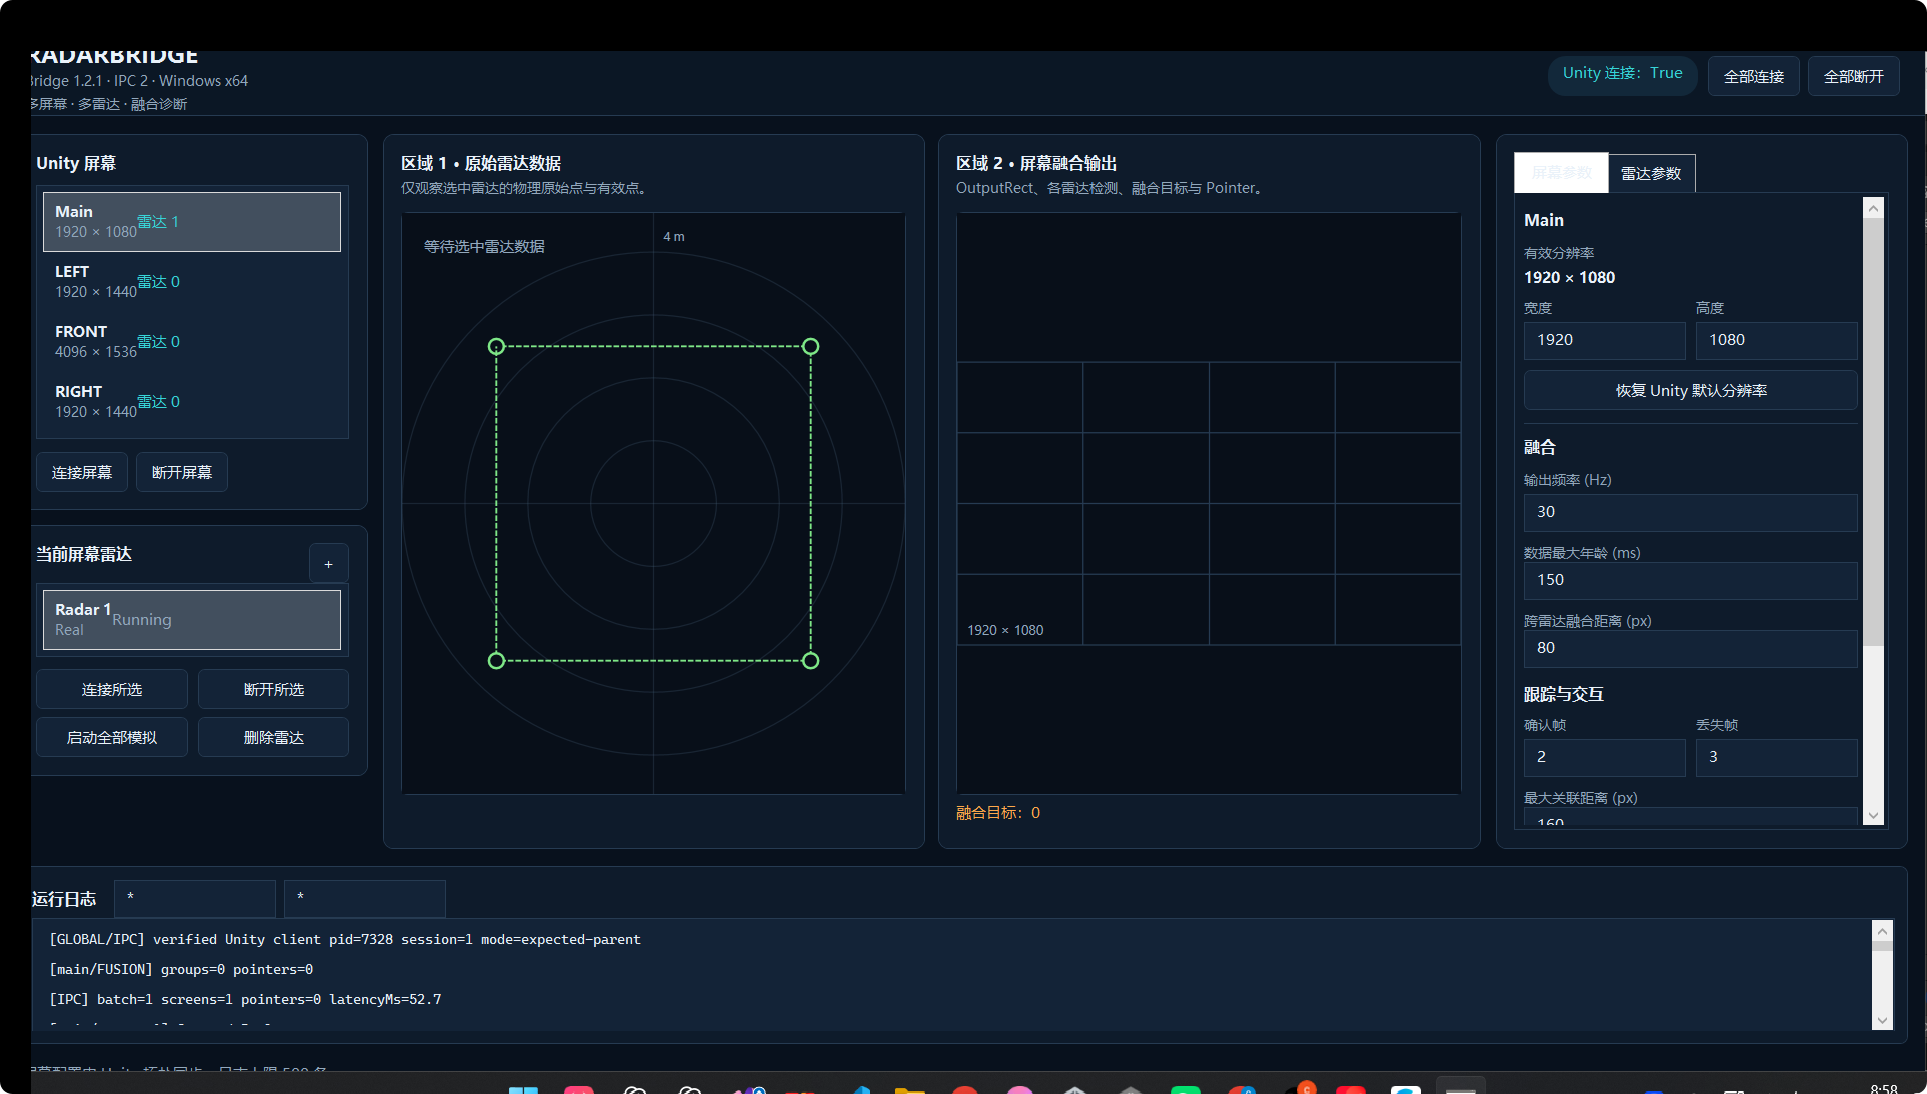
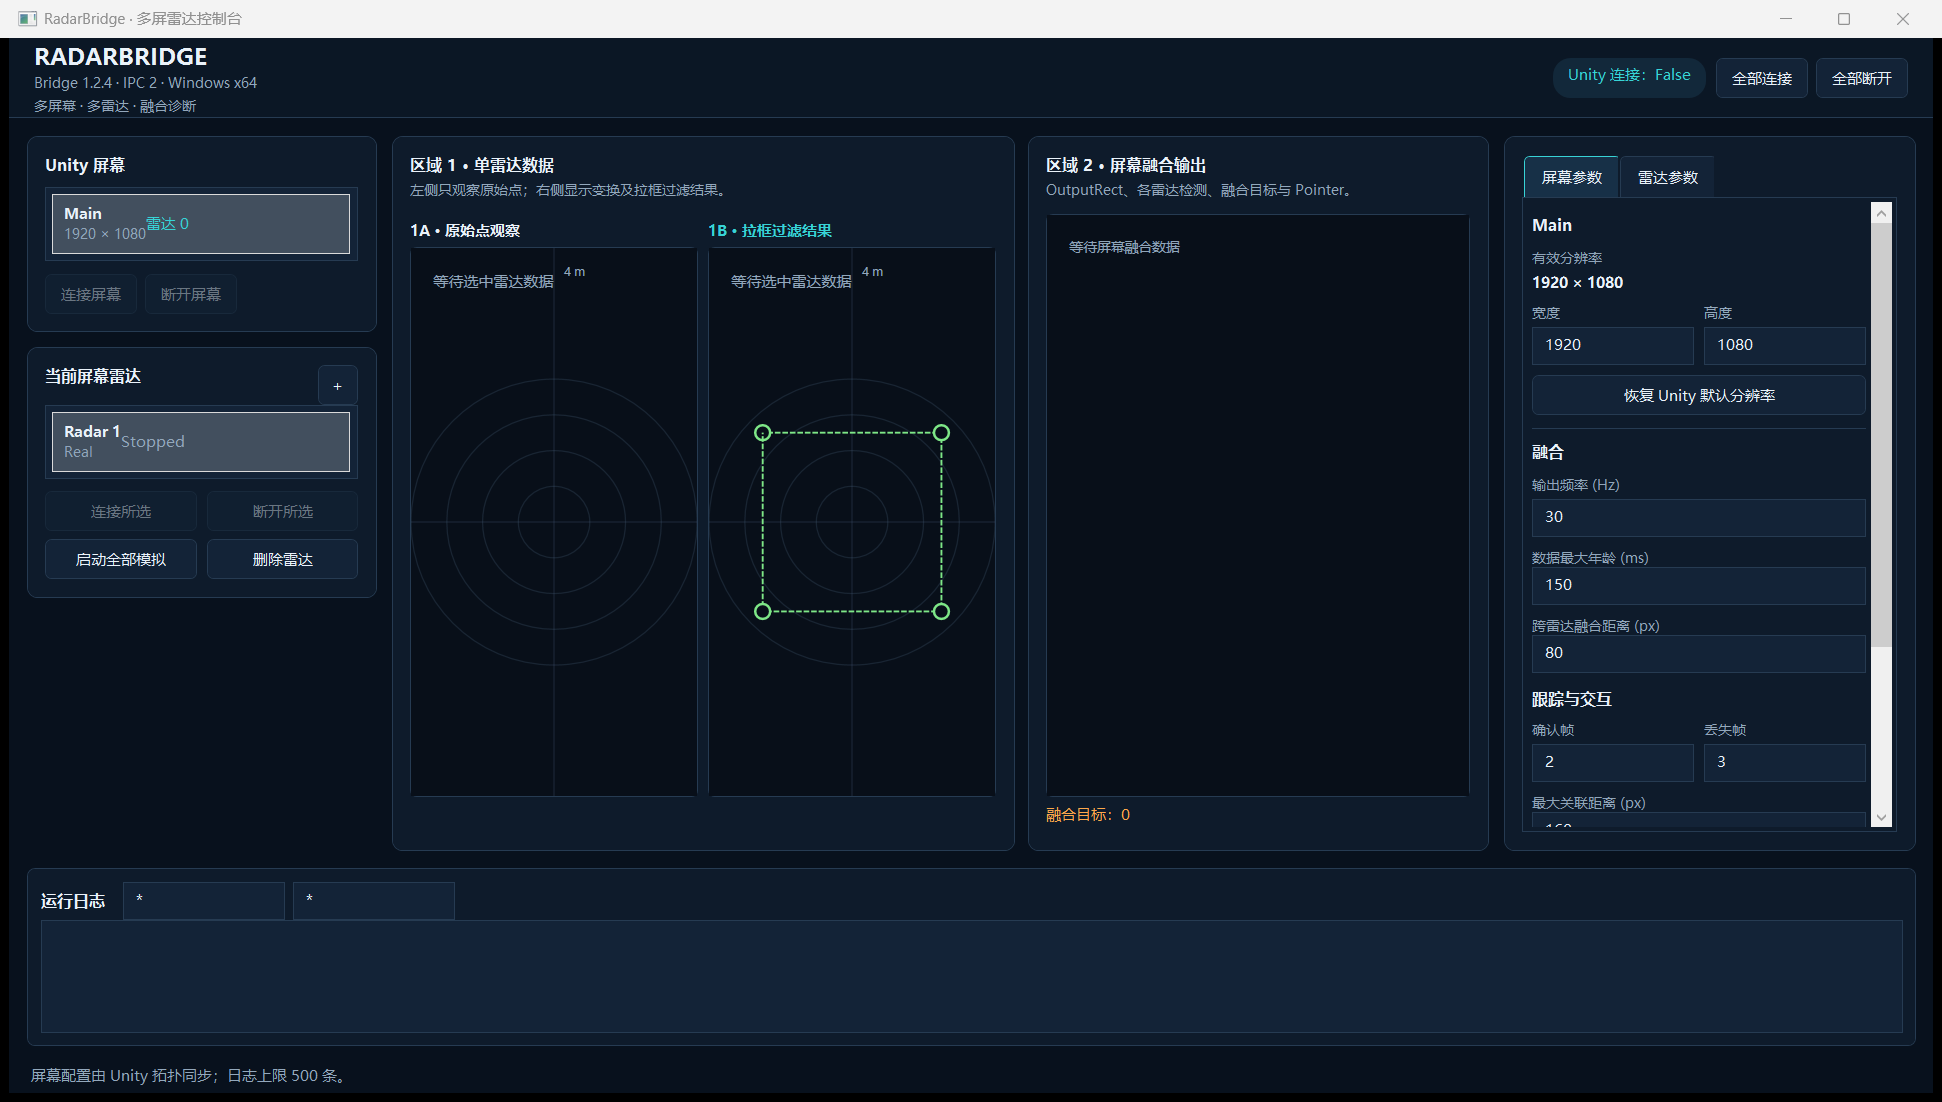
docs: refresh RadarBridge 1.2.4 guide

diff --git a/tests/Radar.Unity.Compatibility.Tests/PackageIdentityTests.cs b/tests/Radar.Unity.Compatibility.Tests/PackageIdentityTests.cs
@@ -272,6 +272,8 @@ public sealed class PackageIdentityTests
         Assert.Contains(taggedUrl, userGuide, StringComparison.Ordinal);
         Assert.Contains("1A 原始点观察", userGuide, StringComparison.Ordinal);
         Assert.Contains("1B 拉框过滤结果", userGuide, StringComparison.Ordinal);
+        Assert.Contains("参数正文铺满面板", userGuide, StringComparison.Ordinal);
+        Assert.Contains("滚动条固定在参数面板最右侧", userGuide, StringComparison.Ordinal);
         Assert.Contains("RadarPointerParticleBinder", userGuide, StringComparison.Ordinal);
         Assert.True(File.Exists(Path.Combine(repositoryRoot, "docs", "images", "radarbridge-overview.png")));
     }

diff --git a/docs/user-guide.md b/docs/user-guide.md
@@ -20,11 +20,20 @@
 
 ## 2. Bridge 主界面
 
-![RadarBridge 主界面](images/radarbridge-overview.png)
+![RadarBridge 1.2.4 主界面，屏幕参数页展开](images/radarbridge-overview.png)
 
-> 图中是现场操作布局截图。`1.2.4` 保持左右栏位置不变，并把中间“区域 1”拆为 `1A 原始点观察` 与 `1B 拉框过滤结果`；两块数据不再叠加显示。
+> 图 1：`RadarBridge 1.2.4` 默认窗口，右侧已展开“屏幕参数”。截图中的 `Unity 连接: False` 和 `Stopped` 表示截图时没有连接 Unity 或真实雷达，仅用于说明界面布局；现场运行时应以右上角连接状态、左侧雷达状态和底部日志为准。
 
-界面从左到右分为五个工作区：Unity 屏幕、当前屏幕雷达、单雷达数据、屏幕融合输出、参数。底部日志用于把 Bridge 状态与 Unity `Player.log` 按时间对齐。
+界面从左到右分为五个功能区。`1.2.4` 将单雷达视图明确拆为 `1A 原始点观察` 与 `1B 拉框过滤结果`，并让右侧参数正文铺满面板；页签标题保持居中，滚动条固定在参数面板最右侧。
+
+| 位置 | 功能 | 观察重点 |
+| --- | --- | --- |
+| 左上 | Unity 屏幕 | Screen ID、逻辑分辨率、所属雷达数量和屏幕级连接操作 |
+| 左下 | 当前屏幕雷达 | 当前屏幕下的雷达列表、连接、模拟、新增和删除 |
+| 中部左侧 | 区域 1 · 单雷达数据 | 1A 只看原始点；1B 查看变换和拉框过滤后的点 |
+| 中部右侧 | 区域 2 · 屏幕融合输出 | OutputRect、融合目标以及最终发送给 Unity 的 Pointer |
+| 右侧 | 屏幕参数 / 雷达参数 | 先选择左侧对象，再通过页签编辑对应参数；使用最右侧滚动条查看下方设置 |
+| 底部 | 运行日志 | 按 screenId、sensorId、时间和序列号与 Unity `Player.log` 对齐 |
 
 ### 2.1 Unity 屏幕
 
@@ -67,6 +76,10 @@
 
 ## 3. 屏幕参数
 
+先在左上选择 Unity 屏幕，再点击右侧 **屏幕参数**。该页只修改当前屏幕的逻辑分辨率、融合、跟踪和交互配置，不修改任何单雷达的 IP、安装方向或物理过滤范围。
+
+参数正文应横向铺满右侧面板：宽度/高度各占一列，其余单值输入框占满可用宽度；内容超出可见高度时，使用面板最右侧的垂直滚动条继续查看。若正文缩在中间、滚动条不在最右侧或页签出现白底浅字，说明运行的不是 `1.2.4` 完整包，应检查 Package Manager Version、Resolved Path 和 `bridge-version.txt`。
+
 | 参数 | 含义与建议 |
 | --- | --- |
 | 宽度 / 高度 | 当前屏幕逻辑像素分辨率；决定传给 Unity 的 `pixelX/pixelY` 范围 |
@@ -84,6 +97,8 @@
 逻辑分辨率改变后，区域 2、Unity 委托和 Camera 路由会使用新像素范围。多雷达覆盖同一正面墙时，它们必须属于同一个 Screen ID，而不是拆成多个 Unity 屏幕。
 
 ## 4. 雷达参数
+
+先在左下选择雷达，再点击右侧 **雷达参数**。该页只修改当前雷达的数据源、网络连接、物理变换、过滤区域、聚类、标定和 OutputRect；同屏其他雷达仍保持各自配置。雷达参数与屏幕参数共用同一个全宽滚动区域，切换页签不会改变当前选中的屏幕或雷达。
 
 ### 4.1 数据源与连接
 
